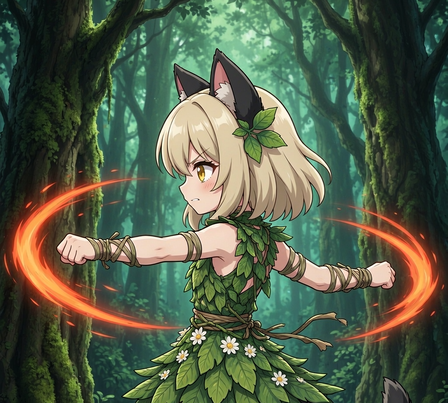
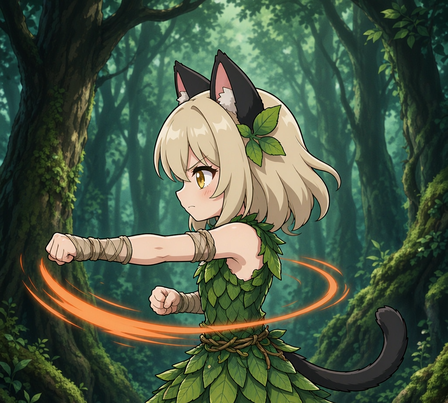
R538g：9215 乱打双拳改同方向朝左
- 店长「双拳朝同一个方向」：v7 双拳一前一后（左朝左、右朝右）被改
- v8 双拳都朝左连续乱打，前拳伸直后拳紧随、两道橙红拳弧都朝左重叠
- prompt 明写 BOTH FISTS PUNCH IN THE SAME DIRECTION + 禁一左一右相反方向
- 纯 90° 侧面、细瘦少女体型保持；裁 (0,40,1024,961) 脚不入画
- 与并行线 55b2aba「R538f 快速符文」撞号，本提交让位改用 R538g

diff --git a/art_src/2026-11-09_拳脚与运单R537/prompts.md b/art_src/2026-11-09_拳脚与运单R537/prompts.md
@@ -622,3 +622,20 @@ ELECTRIC WIRES / ELECTRIC CABLES / power cords / leads / conduits / pipes hangin
 plugs / sockets`。箱子明写：`STRICT RECTANGULAR CUBOID — rectangular lid, rectangular sides,
 RECTANGULAR FLAT BASE, all corners 90-degree RIGHT ANGLES, all edges straight`。
 裁切 `(150,0,1288,1024)`，右移避右下水印 (1400,948)。
+
+
+---
+
+## 14. 9215 乱打 v8 —— 双拳同方向（R538g）
+
+用户口径：「双拳朝同一个方向」。
+
+v7 双拳一前一后（左拳朝左、右拳朝右），方向相反；v8 改成双拳都朝左（面向方向）连续乱打。
+
+关键 ACTION 段：`BOTH FISTS PUNCH IN THE SAME DIRECTION` —— lead fist fully extended toward the far left,
+rear fist follows right behind it, both arms stacked and sweeping toward the SAME side. BOTH orange-red punch
+arcs trail toward the LEFT, overlapping and layered, like a burst of rapid jabs at the same target.
+
+关键禁词：`one fist to the left and one fist to the right / opposite directions / fists spread apart to both sides`。
+
+裁切 `(0,40,1024,961)`，与 v7 同款窗口，脚不入画。

diff --git a/art_src/2026-11-09_拳脚与运单R537/README.md b/art_src/2026-11-09_拳脚与运单R537/README.md
@@ -289,3 +289,12 @@ a single tall glass tank standing where the crate should be / the jar sitting fl
   四角 90° 直角、边全直线」。
 - ⚠ 教训：**参照图会传染「几何形状」，不只传染杂物**——给物件参照时，必须声明「只借哪一项内容、
   几何/轮廓一律不借」，否则箱体轮廓、底座形状、电缆支架都会被抄走。
+
+
+## 十二、R538g 复盘（9215 双拳同方向）
+
+- 店长「双拳朝同一个方向」。v7 双拳一前一后（左拳朝左、右拳朝右）方向相反 → v8 双拳都朝左连续乱打，
+  前拳伸直、后拳紧随，两道橙红拳弧都朝左、重叠分层。
+- prompt 关键：明写 `BOTH FISTS PUNCH IN THE SAME DIRECTION`，并把「一左一右 / 相反方向 / 双拳向两侧张开」
+  全点名禁掉。
+- ⚠ 仍为 4~4.5 头身、头偏大 Q 版感：参照图 Q 版 CG 的大头比例顽固，文字「头小」压不动（与 v7 同结论）。
